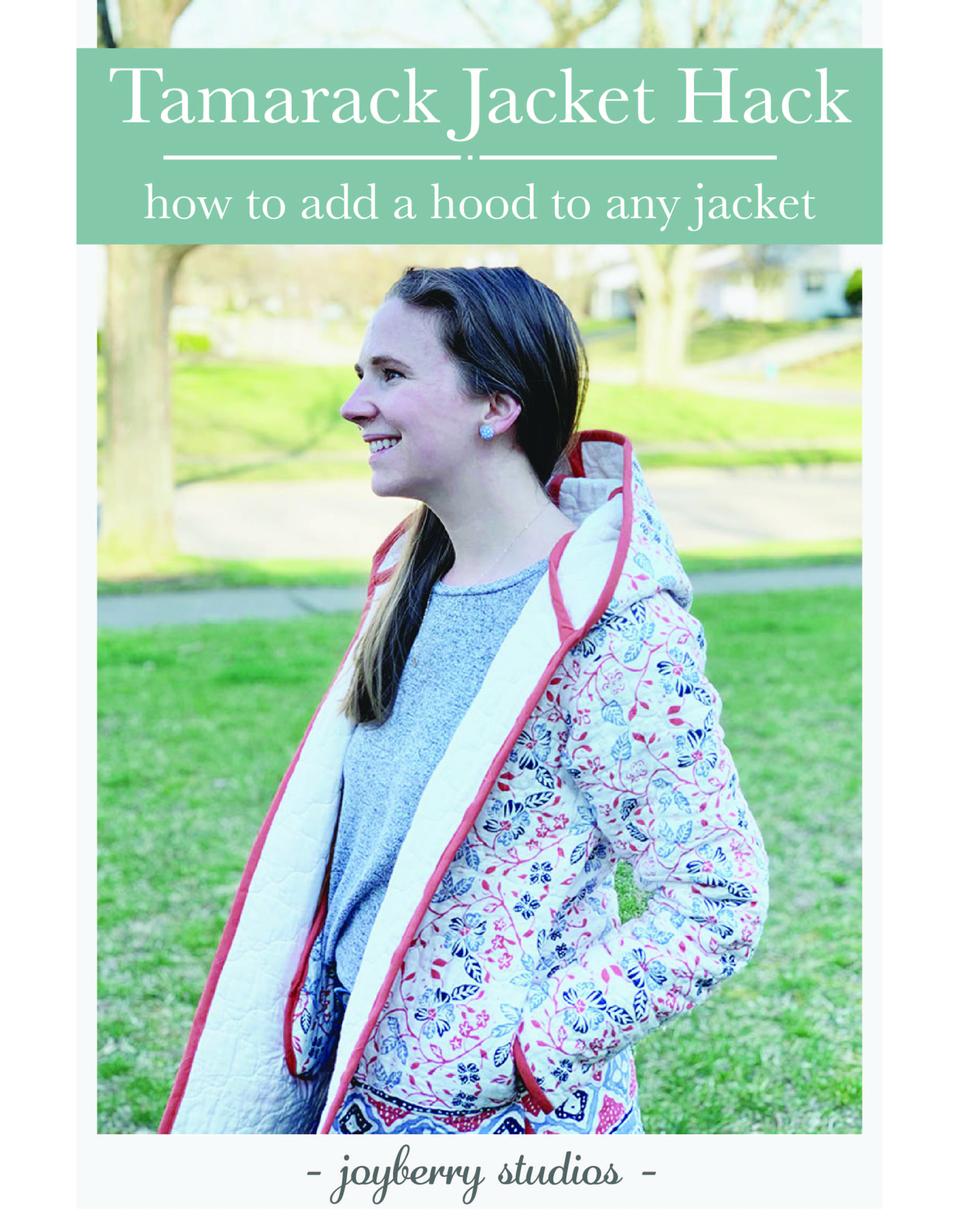
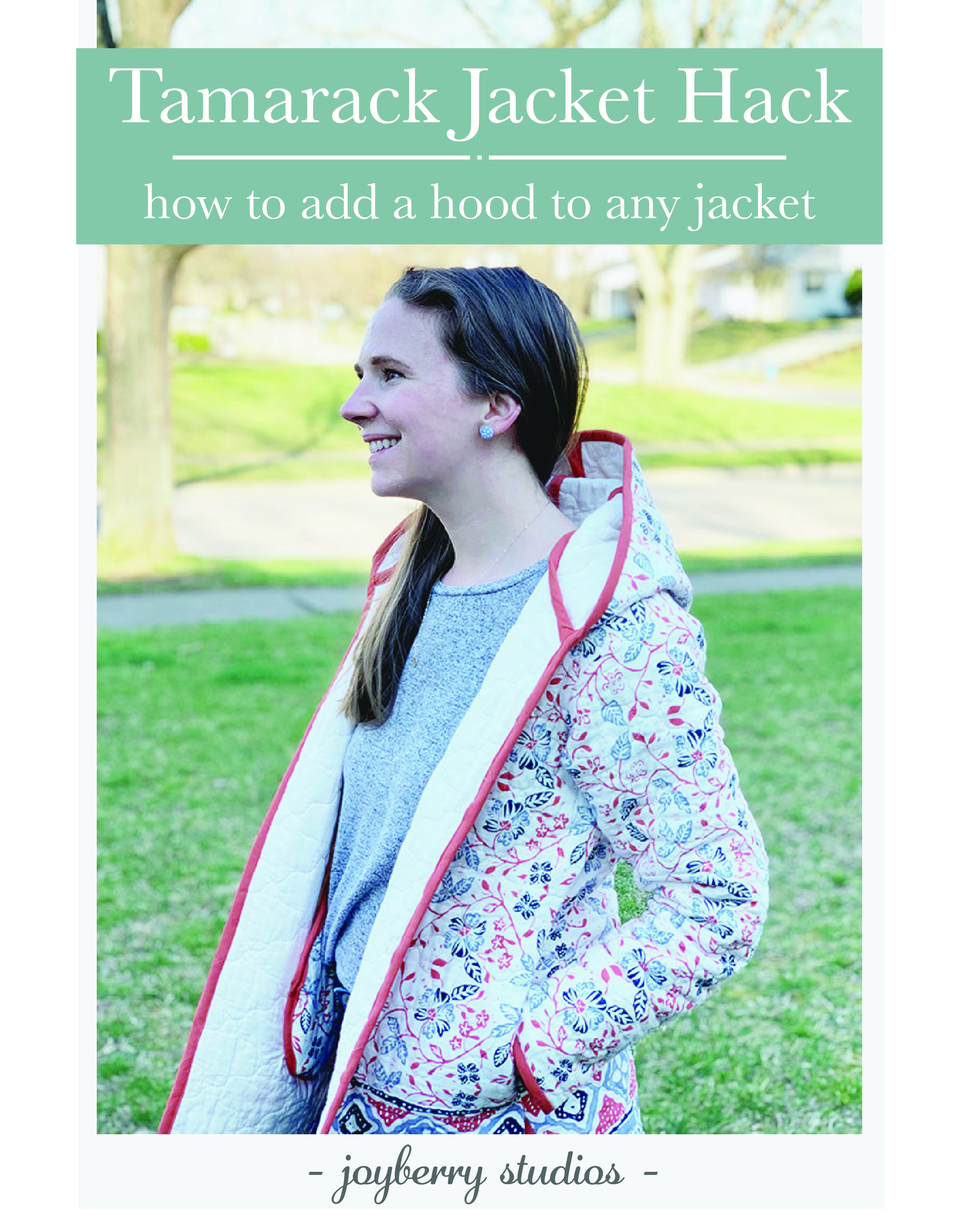
fix picture

Changed region(s): [[0.2797, 0.4978, 0.7768, 0.9956], [0.7147, 0.56, 0.7458, 0.6223], [0.6836, 0.5289, 0.7147, 0.56]]

diff --git a/_posts/2021-03-22-tamarackHood.md b/_posts/2021-03-22-tamarackHood.md
@@ -1,7 +1,7 @@
 ---
 layout: blogpost
 title: "Tamarack Jacket Hack - How to Add a Hood to Any Jacket"
-image: /assets/images/blogs/March2021/hood/hoodPinterestMain2.jpg
+image: /assets/images/blogs/March2021/hood/hoodPinterestMain3.jpg
 date: 2021-03-22
 tags: sewing garments sewingTutorials
 description: "adding a hood to a Tamarack Jacket"
